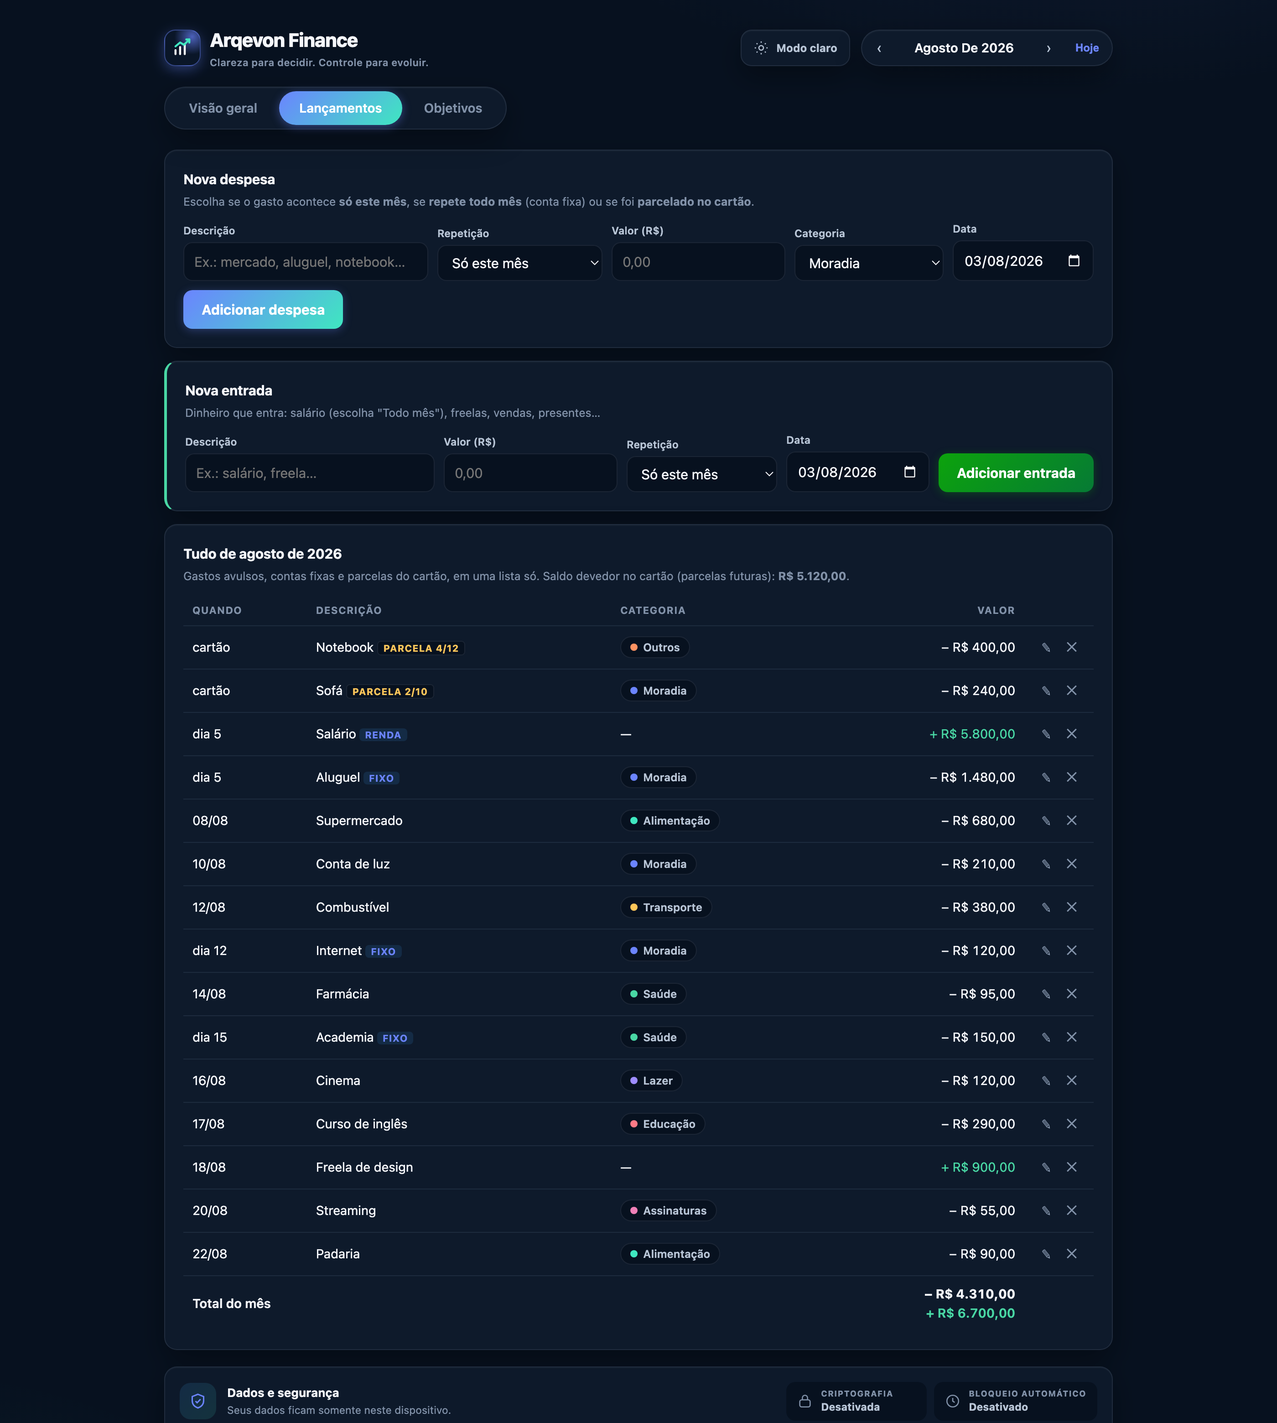
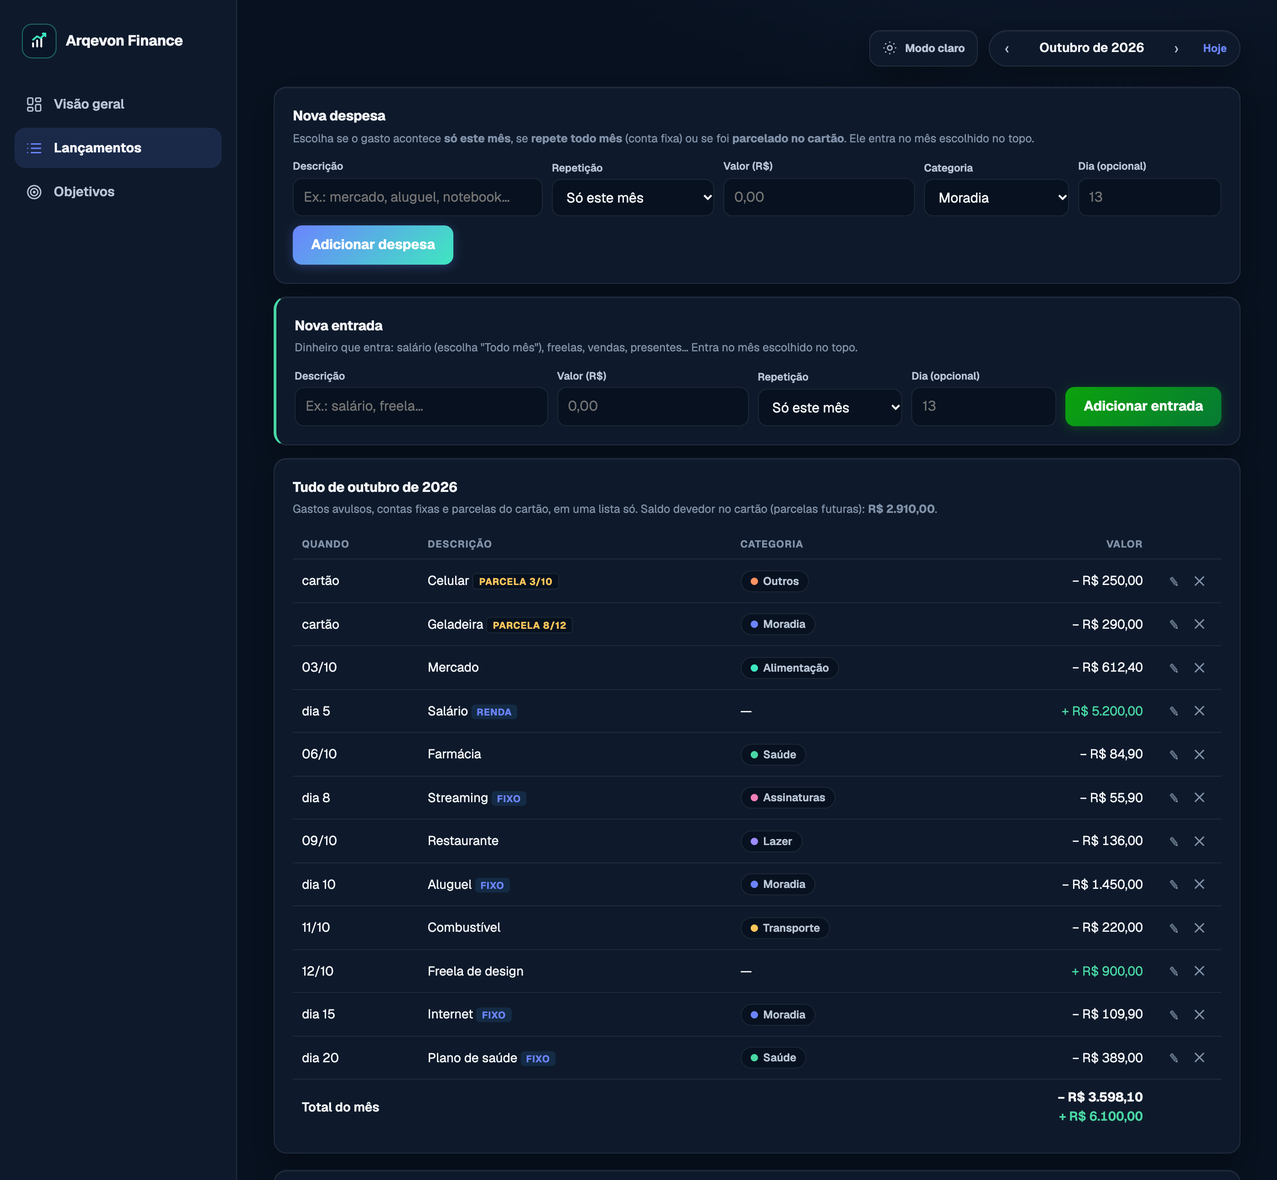
Primeiro uso: ver um exemplo e configuração guiada (#22)
- Motor: "Ver um exemplo" carrega dados fictícios relativos a hoje sem
  gravar nada (salvar ignora; a ponte entrega sempre os dados reais à
  nuvem e ao backup; exportar, importar e resetar saem do exemplo).
- Configuração guiada em 3 passos: renda, contas fixas comuns (com dia)
  e parcelas do cartão ("3 de 10" começa dois meses atrás).
- Boas-vindas com "Configurar em 2 minutos", "Lançar à mão" e "Ver um
  exemplo".
- App web: /#exemplo abre o exemplo direto, sem login.
- Site: capturas de /finance refeitas com o layout atual; botão "Ver um
  exemplo" no topo.
- Testes: primeiro-uso.test.mjs; ARQEVON_WEB_URL roda a bateria contra
  um endereço publicado.

diff --git a/apps/finance-desktop/meu-financeiro.html b/apps/finance-desktop/meu-financeiro.html
@@ -401,13 +401,13 @@ details.hist summary { cursor: pointer; color: var(--muted); font-weight: 600; }
 }
 
 /* ---------- Segurança ---------- */
-dialog#modalSeg, dialog#modalConfirmacao, dialog#modalReset {
+dialog#modalSeg, dialog#modalConfirmacao, dialog#modalReset, dialog#modalGuia {
   border: 1px solid var(--border); border-radius: var(--radius);
   background: var(--surface); color: var(--ink);
   padding: 22px; max-width: 420px; width: calc(100vw - 48px);
   box-shadow: 0 20px 60px rgba(0,0,0,0.35);
 }
-dialog#modalSeg::backdrop, dialog#modalConfirmacao::backdrop, dialog#modalReset::backdrop { background: rgba(0,0,0,0.5); backdrop-filter: blur(3px); }
+dialog#modalSeg::backdrop, dialog#modalConfirmacao::backdrop, dialog#modalReset::backdrop, dialog#modalGuia::backdrop { background: rgba(0,0,0,0.5); backdrop-filter: blur(3px); }
 dialog#modalSeg h2, dialog#modalConfirmacao h2, dialog#modalReset h2 { margin: 0 0 4px; font-size: 17px; }
 .botao.confirmar-perigo { background: var(--bad); box-shadow: none; }
 .reset-campo { display: grid; gap: 5px; margin-top: 16px; font-size: 12px; font-weight: 700; color: var(--ink-2); }
@@ -423,6 +423,40 @@ dialog#modalSeg h2, dialog#modalConfirmacao h2, dialog#modalReset h2 { margin: 0
 .sec-toggle .hint { margin: 6px 0 0 24px; }
 .sec-toggle select { width: auto; margin-left: 24px; }
 .sec-acoes { display: flex; justify-content: flex-end; gap: 8px; margin-top: 20px; }
+
+/* ---------- Boas-vindas, exemplo e configuração guiada ---------- */
+.boas-vindas-acoes { display: flex; flex-wrap: wrap; justify-content: center; gap: 10px; }
+.faixa-exemplo {
+  display: flex; flex-wrap: wrap; align-items: center; gap: 10px 14px; margin-bottom: 14px;
+  padding: 12px 16px; border-radius: var(--radius); font-size: 14px; color: var(--ink);
+  background: color-mix(in srgb, var(--warn) 14%, var(--surface)); border: 1px solid color-mix(in srgb, var(--warn) 40%, transparent);
+}
+.faixa-exemplo[hidden] { display: none; }
+.faixa-exemplo p { margin: 0; flex: 1 1 260px; }
+.faixa-exemplo .acoes { display: flex; flex-wrap: wrap; gap: 8px; }
+dialog#modalGuia { max-width: 560px; }
+.guia-topo { display: flex; align-items: center; justify-content: space-between; font-size: 12px; font-weight: 700; color: var(--muted); letter-spacing: .04em; text-transform: uppercase; }
+.guia-fechar { border: 0; background: none; color: var(--muted); font-size: 16px; cursor: pointer; padding: 4px 6px; }
+.guia-trilho { height: 4px; border-radius: 4px; background: var(--grid); margin: 10px 0 16px; overflow: hidden; }
+.guia-trilho span { display: block; height: 100%; width: 33%; background: var(--accent); transition: width .25s; }
+#modalGuia h2 { font-size: 18px; margin: 0 0 4px; }
+#modalGuia .hint { font-size: 13px; color: var(--muted); margin: 0 0 14px; }
+.guia-linha { display: grid; grid-template-columns: minmax(0, 1fr) 96px; gap: 8px; align-items: end; }
+.guia-linha + .guia-linha { margin-top: 8px; }
+.guia-linha label, .guia-parcela label { display: grid; gap: 4px; font-size: 12px; font-weight: 600; color: var(--ink-2); }
+#modalGuia input, #modalGuia select {
+  font: inherit; font-size: 16px; color: var(--ink); background: var(--page);
+  border: 1px solid var(--border); border-radius: 10px; padding: 9px 11px; width: 100%; min-width: 0;
+}
+.guia-fixos { display: grid; gap: 8px; max-height: 46vh; overflow-y: auto; padding-right: 2px; }
+.guia-fixos .guia-linha { grid-template-columns: minmax(0, 1fr) 120px 72px; align-items: center; }
+.guia-fixos .guia-linha > span { font-size: 14px; color: var(--ink); }
+.guia-parcela { display: grid; grid-template-columns: minmax(0, 1.4fr) minmax(0, 1fr) 64px 64px; gap: 8px; align-items: end; margin-bottom: 10px; }
+.guia-resumo { margin: 0; padding: 0; list-style: none; display: grid; gap: 6px; font-size: 14px; }
+@media (max-width: 480px) {
+  .guia-fixos .guia-linha { grid-template-columns: minmax(0, 1fr) 104px 60px; }
+  .guia-parcela { grid-template-columns: 1fr 1fr; }
+}
 .aviso-seg { color: var(--bad); font-size: 13px; margin: 12px 0 0; }
 
 #telaBloqueio {
@@ -479,6 +513,14 @@ dialog#modalSeg h2, dialog#modalConfirmacao h2, dialog#modalReset h2 { margin: 0
       <button class="hoje" id="mesHoje">Hoje</button>
     </div>
   </header>
+
+  <div class="faixa-exemplo" id="faixaExemplo" role="status" hidden>
+    <p><b>Você está vendo um exemplo</b> com dados fictícios. Nada aqui é salvo.</p>
+    <div class="acoes">
+      <button class="botao mini" type="button" id="exemploConfigurar">Configurar com meus dados</button>
+      <button class="botao mini cancelar" type="button" id="exemploSair">Sair do exemplo</button>
+    </div>
+  </div>
 
   <nav class="abas" id="abas">
     <button data-aba="painel" class="ativa">Visão geral</button>
@@ -662,6 +704,36 @@ dialog#modalSeg h2, dialog#modalConfirmacao h2, dialog#modalReset h2 { margin: 0
   </div>
 </dialog>
 
+<dialog id="modalGuia" aria-labelledby="guiaTitulo">
+  <div class="guia-topo"><span id="guiaPasso">Passo 1 de 3</span>
+    <button type="button" class="guia-fechar" id="guiaFechar" aria-label="Fechar">✕</button></div>
+  <div class="guia-trilho"><span id="guiaBarra"></span></div>
+  <section data-passo="1">
+    <h2 id="guiaTitulo">Quanto você recebe por mês?</h2>
+    <p class="hint">Salário, pró-labore, aposentadoria… Se varia, use uma média. Pode deixar em branco.</p>
+    <div class="guia-linha">
+      <label>Renda mensal (R$)<input id="gRenda" inputmode="numeric" autocomplete="off" placeholder="0,00"></label>
+      <label>Dia que cai<input id="gRendaDia" type="number" min="1" max="31" inputmode="numeric" placeholder="5"></label>
+    </div>
+  </section>
+  <section data-passo="2" hidden>
+    <h2>Quais contas se repetem todo mês?</h2>
+    <p class="hint">Preencha só as que você tem. Tudo pode ser mudado depois em Lançamentos.</p>
+    <div class="guia-fixos" id="gFixos"></div>
+  </section>
+  <section data-passo="3" hidden>
+    <h2>Tem compras parceladas no cartão?</h2>
+    <p class="hint">Informe o valor da parcela e em qual delas você está (ex.: 3 de 10). O app mostra as que ainda faltam.</p>
+    <div id="gParcelas"></div>
+    <button type="button" class="botao mini cancelar" id="gMaisParcela">+ Outra compra</button>
+  </section>
+  <p class="aviso-seg" id="guiaErro" hidden></p>
+  <div class="sec-acoes">
+    <button class="botao cancelar" type="button" id="guiaVoltar">Voltar</button>
+    <button class="botao" type="button" id="guiaAvancar">Continuar</button>
+  </div>
+</dialog>
+
 <dialog id="modalReset">
   <h2>Resetar todos os dados?</h2>
   <p class="hint" id="resetMensagem"></p>
@@ -727,6 +799,7 @@ const CATEGORIAS = [
 const catPorId = id => CATEGORIAS.find(c => c.id === id) || CATEGORIAS.find(c => c.id === "outros");
 
 let blobPendente = null; // dados criptografados aguardando a senha
+let exemplo = null; // { real } enquanto o exemplo com dados fictícios está aberto
 // Descarta registros sem os campos que os cálculos usam: um item quebrado não pode travar o app inteiro.
 function normalizar(d) {
   const lista = v => (Array.isArray(v) ? v : []).filter(x => x && typeof x === "object");
@@ -752,6 +825,7 @@ function carregar() {
   return { lancamentos: [], fixos: [], parcelamentos: [], objetivos: [] };
 }
 function salvar() {
+  if (exemplo) return; // dados fictícios do exemplo nunca são gravados
   if (seg.cripto && !chaveSessao) return; // trancado: gravar agora apagaria o cofre com dados vazios
   if (seg.cripto && chaveSessao) {
     const json = JSON.stringify(dados);
@@ -1039,11 +1113,15 @@ function renderPainel() {
     <div class="card" style="text-align:center; padding:44px 24px">
       <h2 style="font-size:18px">Bem-vindo ao Arqevon Finance 👋</h2>
       <p class="hint" style="max-width:520px; margin:8px auto 20px">
-        Vá na aba <b>Lançamentos</b> e registre tudo por lá: sua renda e contas fixas
-        (escolha "Todo mês"), os gastos do dia a dia ("Só este mês") e as compras
-        parceladas no cartão ("Parcelado"). O painel e a projeção se montam sozinhos.
+        Em 2 minutos você informa sua renda, as contas que se repetem e as parcelas do cartão,
+        e o painel e a projeção dos próximos meses se montam sozinhos. Se preferir,
+        veja antes um exemplo com dados fictícios.
       </p>
-      <button class="botao" onclick="ativarAba('lancamentos')">Fazer meu primeiro lançamento</button>
+      <div class="boas-vindas-acoes">
+        <button class="botao" type="button" onclick="abrirGuia()">Configurar em 2 minutos</button>
+        <button class="botao cancelar" type="button" onclick="ativarAba('lancamentos')">Lançar à mão</button>
+        <button class="botao cancelar" type="button" onclick="verExemplo()">Ver um exemplo</button>
+      </div>
     </div>` : `
     <div class="grid tiles">
       <div class="card tile">
@@ -1543,6 +1621,144 @@ function renderObjetivos() {
   alvo.querySelectorAll("input[data-aporte]").forEach(mascaraMoeda);
 }
 
+/* ================= Exemplo com dados fictícios ================= */
+// Mostra o app cheio antes de a pessoa digitar qualquer coisa. Datas relativas a hoje, para o
+// painel e a projeção fazerem sentido em qualquer mês. Nada é gravado (salvar() ignora).
+function dadosExemplo() {
+  const mk = n => { const m = somaMes(hoje.getFullYear(), hoje.getMonth(), n); return chaveMes(m.ano, m.mes); };
+  const dia = (n, d) => `${mk(n)}-${String(d).padStart(2, "0")}`;
+  const l = (n, d, descricao, valor, categoria, tipo = "despesa") =>
+    ({ id: uid(), tipo, descricao, valor, categoria: tipo === "receita" ? "outros" : categoria, data: dia(n, d) });
+  return {
+    lancamentos: [
+      l(0, 3, "Mercado", 612.40, "alimentacao"), l(0, 6, "Farmácia", 84.90, "saude"), l(0, 9, "Restaurante", 136, "lazer"),
+      l(0, 11, "Combustível", 220, "transporte"), l(0, 12, "Freela de design", 900, "outros", "receita"),
+      l(-1, 4, "Mercado", 587.15, "alimentacao"), l(-1, 14, "Cinema", 72, "lazer"), l(-1, 18, "Combustível", 210, "transporte"),
+      l(-1, 22, "Presente de aniversário", 150, "outros"),
+      l(-2, 5, "Mercado", 640.30, "alimentacao"), l(-2, 16, "Curso online", 197, "educacao"), l(-2, 20, "Combustível", 230, "transporte"),
+    ],
+    fixos: [
+      { id: uid(), tipo: "receita", descricao: "Salário", valor: 5200, categoria: "outros", dia: 5 },
+      { id: uid(), tipo: "despesa", descricao: "Aluguel", valor: 1450, categoria: "moradia", dia: 10 },
+      { id: uid(), tipo: "despesa", descricao: "Internet", valor: 109.90, categoria: "moradia", dia: 15 },
+      { id: uid(), tipo: "despesa", descricao: "Plano de saúde", valor: 389, categoria: "saude", dia: 20 },
+      { id: uid(), tipo: "despesa", descricao: "Streaming", valor: 55.90, categoria: "assinaturas", dia: 8 },
+    ],
+    parcelamentos: [
+      { id: uid(), descricao: "Celular", valorTotal: 2500, numParcelas: 10, categoria: "outros", inicio: mk(-2) },
+      { id: uid(), descricao: "Geladeira", valorTotal: 3480, numParcelas: 12, categoria: "moradia", inicio: mk(-7) },
+    ],
+    objetivos: [
+      { id: uid(), nome: "Reserva de emergência", meta: 15000, aporteMensal: 500,
+        aportes: [-2, -1, 0].map(n => ({ id: uid(), valor: 500, data: dia(n, 6) })) },
+      { id: uid(), nome: "Viagem de férias", meta: 6000, aporteMensal: 300,
+        aportes: [-1, 0].map(n => ({ id: uid(), valor: 300, data: dia(n, 7) })) },
+    ],
+  };
+}
+window.verExemplo = () => {
+  if (exemplo) return;
+  limparEdicao();
+  exemplo = { real: dados };
+  dados = dadosExemplo();
+  $("#faixaExemplo").hidden = false;
+  mesAtual = { ano: hoje.getFullYear(), mes: hoje.getMonth() };
+  ativarAba("painel");
+  renderTudo();
+};
+function sairExemplo() {
+  if (!exemplo) return;
+  dados = exemplo.real;
+  exemplo = null;
+  limparEdicao();
+  $("#faixaExemplo").hidden = true;
+  renderTudo();
+}
+$("#exemploSair").onclick = sairExemplo;
+$("#exemploConfigurar").onclick = () => { sairExemplo(); abrirGuia(); };
+
+/* ================= Configuração guiada (renda, contas fixas, cartão) ================= */
+const GUIA_FIXOS = [
+  ["Aluguel ou financiamento", "moradia"], ["Condomínio", "moradia"], ["Luz", "moradia"], ["Água", "moradia"],
+  ["Internet", "moradia"], ["Celular", "assinaturas"], ["Plano de saúde", "saude"], ["Escola ou faculdade", "educacao"],
+  ["Transporte (combustível, passe)", "transporte"], ["Streaming e assinaturas", "assinaturas"],
+];
+let passoGuia = 1;
+function linhaParcela() {
+  const div = document.createElement("div");
+  div.className = "guia-parcela";
+  div.innerHTML = `<label>Compra<input data-g="desc" placeholder="Ex.: celular"></label>
+    <label>Valor da parcela<input data-g="valor" inputmode="numeric" autocomplete="off" placeholder="0,00"></label>
+    <label>Parcela<input data-g="atual" type="number" min="1" max="60" inputmode="numeric" placeholder="1"></label>
+    <label>de<input data-g="total" type="number" min="1" max="60" inputmode="numeric" placeholder="10"></label>`;
+  mascaraMoeda(div.querySelector('[data-g="valor"]'));
+  $("#gParcelas").appendChild(div);
+  return div;
+}
+window.abrirGuia = () => {
+  sairExemplo();
+  passoGuia = 1;
+  $("#gRenda").value = ""; $("#gRendaDia").value = "";
+  $("#gFixos").innerHTML = GUIA_FIXOS.map(([nome], i) => `<div class="guia-linha"><span>${esc(nome)}</span>
+    <input data-fixo="${i}" inputmode="numeric" autocomplete="off" placeholder="0,00" aria-label="Valor de ${esc(nome)}">
+    <input data-fixo-dia="${i}" type="number" min="1" max="31" inputmode="numeric" placeholder="dia" aria-label="Dia de vencimento de ${esc(nome)}"></div>`).join("");
+  $("#gFixos").querySelectorAll("[data-fixo]").forEach(mascaraMoeda);
+  $("#gParcelas").innerHTML = "";
+  linhaParcela();
+  mostrarPassoGuia();
+  $("#modalGuia").showModal();
+  $("#gRenda").focus();
+};
+mascaraMoeda($("#gRenda"));
+function mostrarPassoGuia() {
+  document.querySelectorAll("#modalGuia section[data-passo]").forEach(sec => { sec.hidden = Number(sec.dataset.passo) !== passoGuia; });
+  $("#guiaPasso").textContent = `Passo ${passoGuia} de 3`;
+  $("#guiaBarra").style.width = `${passoGuia * 100 / 3}%`;
+  $("#guiaVoltar").hidden = passoGuia === 1;
+  $("#guiaAvancar").textContent = passoGuia === 3 ? "Concluir" : "Continuar";
+  $("#guiaErro").hidden = true;
+}
+const diaGuia = el => { const d = parseInt(el.value, 10); return d >= 1 && d <= 31 ? d : null; };
+function parcelasGuia() {
+  const out = [];
+  for (const linha of document.querySelectorAll("#gParcelas .guia-parcela")) {
+    const campo = g => linha.querySelector(`[data-g="${g}"]`);
+    const desc = campo("desc").value.trim(), valor = valorDe(campo("valor"));
+    const atual = parseInt(campo("atual").value, 10) || 1, total = parseInt(campo("total").value, 10);
+    if (!desc && !(valor > 0)) continue;
+    if (!desc || !(valor > 0)) throw new Error("Informe a compra e o valor da parcela, ou deixe a linha em branco.");
+    if (!(total >= 1 && total <= 60) || atual < 1 || atual > total) throw new Error(`Confira as parcelas de "${desc}": a atual precisa estar entre 1 e o total (até 60).`);
+    // "3 de 10" hoje = começou 2 meses atrás
+    const ini = somaMes(hoje.getFullYear(), hoje.getMonth(), -(atual - 1));
+    out.push({ id: uid(), descricao: desc, valorTotal: Math.round(valor * total * 100) / 100, numParcelas: total,
+      categoria: "outros", inicio: chaveMes(ini.ano, ini.mes) });
+  }
+  return out;
+}
+$("#guiaVoltar").onclick = () => { passoGuia = Math.max(1, passoGuia - 1); mostrarPassoGuia(); };
+$("#guiaFechar").onclick = () => $("#modalGuia").close();
+$("#gMaisParcela").onclick = () => linhaParcela().querySelector("input").focus();
+$("#guiaAvancar").onclick = () => {
+  let parcelas = [];
+  if (passoGuia === 3) {
+    try { parcelas = parcelasGuia(); } catch (e) { $("#guiaErro").textContent = e.message; $("#guiaErro").hidden = false; return; }
+  }
+  if (passoGuia < 3) { passoGuia++; mostrarPassoGuia(); return; }
+
+  const renda = valorDe($("#gRenda"));
+  if (renda > 0) dados.fixos.push({ id: uid(), tipo: "receita", descricao: "Salário", valor: renda, categoria: "outros", dia: diaGuia($("#gRendaDia")) });
+  GUIA_FIXOS.forEach(([descricao, categoria], i) => {
+    const valor = valorDe(document.querySelector(`[data-fixo="${i}"]`));
+    if (valor > 0) dados.fixos.push({ id: uid(), tipo: "despesa", descricao, valor, categoria, dia: diaGuia(document.querySelector(`[data-fixo-dia="${i}"]`)) });
+  });
+  dados.parcelamentos.push(...parcelas);
+  salvar();
+  $("#modalGuia").close();
+  mesAtual = { ano: hoje.getFullYear(), mes: hoje.getMonth() };
+  ativarAba("painel");
+  renderTudo();
+};
+
 /* ================= Segurança: senha, criptografia e bloqueio ================= */
 // Mesmo mínimo exigido no backup portátil, para não haver senha forte no arquivo e fraca na chave AES local.
 const SENHA_MINIMA = 6;
@@ -1844,6 +2060,7 @@ atualizarRodapeBackup();
 
 /* ================= Exportar / importar ================= */
 $("#btnExportar").onclick = () => {
+  sairExemplo();
   if (seg.cripto && !confirm("O arquivo exportado NÃO é criptografado (para você poder ler e importar em qualquer lugar). Guarde-o em local seguro. Continuar?")) return;
   const blob = new Blob([JSON.stringify(dados, null, 2)], { type: "application/json" });
   const a = document.createElement("a");
@@ -1852,10 +2069,11 @@ $("#btnExportar").onclick = () => {
   a.click();
   URL.revokeObjectURL(a.href);
 };
-$("#btnImportar").onclick = () => $("#arqImportar").click();
+$("#btnImportar").onclick = () => { sairExemplo(); $("#arqImportar").click(); };
 
 /* ================= Resetar todos os dados ================= */
 $("#btnResetar").onclick = () => {
+  sairExemplo();
   const n = dados.lancamentos.length + dados.fixos.length + dados.parcelamentos.length + dados.objetivos.length;
   if (n === 0) return;
   $("#resetMensagem").textContent = `Isso apagará ${n} ${n === 1 ? "item" : "itens"}, incluindo lançamentos, contas fixas, parcelas e objetivos. Uma cópia local de recuperação será criada antes. Se o backup automático estiver ativo, o arquivo externo poderá ser sobrescrito vazio.`;
@@ -1936,9 +2154,11 @@ function renderTudo() {
 // Interface estável usada pelo empacotador desktop para backups portáteis.
 window.MyFinanceBridge = {
   versaoDados: 1,
-  obterDados: () => structuredClone(dados),
+  // Durante o exemplo, quem pergunta (nuvem, backup do desktop) recebe sempre os dados reais.
+  obterDados: () => structuredClone(exemplo ? exemplo.real : dados),
   substituirDados: novo => {
     if (!novo || !Array.isArray(novo.lancamentos)) throw new Error("Dados inválidos");
+    sairExemplo();
     guardarCopia(CHAVE + "-pre-import", dados);
     dados = normalizar(novo);
     salvar(); limparEdicao(); renderTudo();

diff --git a/apps/site/app/finance/page.tsx b/apps/site/app/finance/page.tsx
@@ -69,14 +69,14 @@ export default function Finance() {
           </p>
           <div className="lp-hero-acoes">
             <a className="lp-botao grande" href={APP_URL}>Começar grátis</a>
-            <a className="lp-botao-sec grande" href="#como-funciona">Ver como funciona</a>
+            <a className="lp-botao-sec grande" href={`${APP_URL}#exemplo`}>Ver um exemplo</a>
           </div>
           <p className="lp-hero-nota">Grátis para usar. Funciona no navegador, sem instalar nada.</p>
         </div>
         <div className="lp-hero-tela">
           <div className="lp-janela">
             <div className="lp-janela-barra"><i /><i /><i /><span>app.arqevoncode.com.br</span></div>
-            <Image src="/produto/visao-geral.png" alt="Tela Visão geral do Arqevon Finance com receitas, despesas, saldo e gastos por categoria" width={2800} height={3320} priority sizes="(max-width: 960px) 100vw, 640px" />
+            <Image src="/produto/visao-geral.png" alt="Tela Visão geral do Arqevon Finance com receitas, despesas, saldo, gastos por categoria e projeção" width={2800} height={3160} priority sizes="(max-width: 960px) 100vw, 640px" />
           </div>
         </div>
       </section>
@@ -103,11 +103,11 @@ export default function Finance() {
         </div>
         <div className="lp-duas-telas">
           <figure>
-            <Image src="/produto/lancamentos.png" alt="Aba Lançamentos com contas fixas, renda e parcelas" width={2800} height={3120} sizes="(max-width: 960px) 100vw, 560px" />
+            <Image src="/produto/lancamentos.png" alt="Aba Lançamentos com contas fixas, renda e parcelas" width={2800} height={2586} sizes="(max-width: 960px) 100vw, 560px" />
             <figcaption>Lançamentos: fixos, renda e parcelas na mesma lista.</figcaption>
           </figure>
           <figure>
-            <Image src="/produto/objetivos.png" alt="Aba Objetivos com barras de progresso" width={2800} height={1240} sizes="(max-width: 960px) 100vw, 560px" />
+            <Image src="/produto/objetivos.png" alt="Aba Objetivos com barras de progresso" width={2800} height={1200} sizes="(max-width: 960px) 100vw, 560px" />
             <figcaption>Objetivos: quanto falta para cada meta.</figcaption>
           </figure>
         </div>

diff --git a/apps/web/src/web.js b/apps/web/src/web.js
@@ -307,16 +307,21 @@ document.addEventListener("visibilitychange", () => {
 
 // ---------- Início ----------
 montarLayout();
+// Link "Ver um exemplo" do site (/#exemplo): abre o app com dados fictícios, sem pedir login.
+const pediuExemplo = location.hash === "#exemplo";
+if (pediuExemplo) history.replaceState(null, "", location.pathname + location.search);
 const { data: { session } } = await supabase.auth.getSession();
 if (session) {
   estado = { ...estado, modo: "conta", email: session.user.email, uid: session.user.id };
   liberarApp();
-} else if (localStorage.getItem(MODO_LOCAL) === "1") {
+} else if (localStorage.getItem(MODO_LOCAL) === "1" || pediuExemplo) {
+  localStorage.setItem(MODO_LOCAL, "1");
   estado = { ...estado, modo: "local" };
   liberarApp();
 } else {
   mostrarLogin();
 }
+if (pediuExemplo) window.verExemplo?.();
 supabase.auth.onAuthStateChange((evento) => {
   if (evento === "SIGNED_OUT" && estado.modo === "conta") { nuvem.sair(); estado = { ...estado, modo: null, uid: null }; mostrarLogin(); }
 });

diff --git a/CLAUDE.md b/CLAUDE.md
@@ -27,7 +27,8 @@ No `apps/web`, `npm run test:e2e` abre o app no Chrome (puppeteer-core, com o Ch
 fixada em 13/10/2026. `npm run test:regressao` roda o mesmo roteiro em `origin/main`
 (`REGRESSAO_BASE`) e na versão local e compara dados e telas passo a passo. Os dois rodam no CI. A
 regressão também fica vermelha numa mudança intencional de comportamento: nesse caso, leia a saída
-antes de fazer o merge.
+antes de fazer o merge. Depois do deploy, `ARQEVON_WEB_URL=https://app.arqevoncode.com.br/ node --test
+--test-concurrency=1 'tests/e2e/*.test.mjs'` roda a mesma bateria contra a produção.
 
 `apps/finance-desktop` precisa de Rust apenas para `npm run dev` e `npm run build` (Tauri). Os
 testes e o `build:web` rodam sem Rust.
